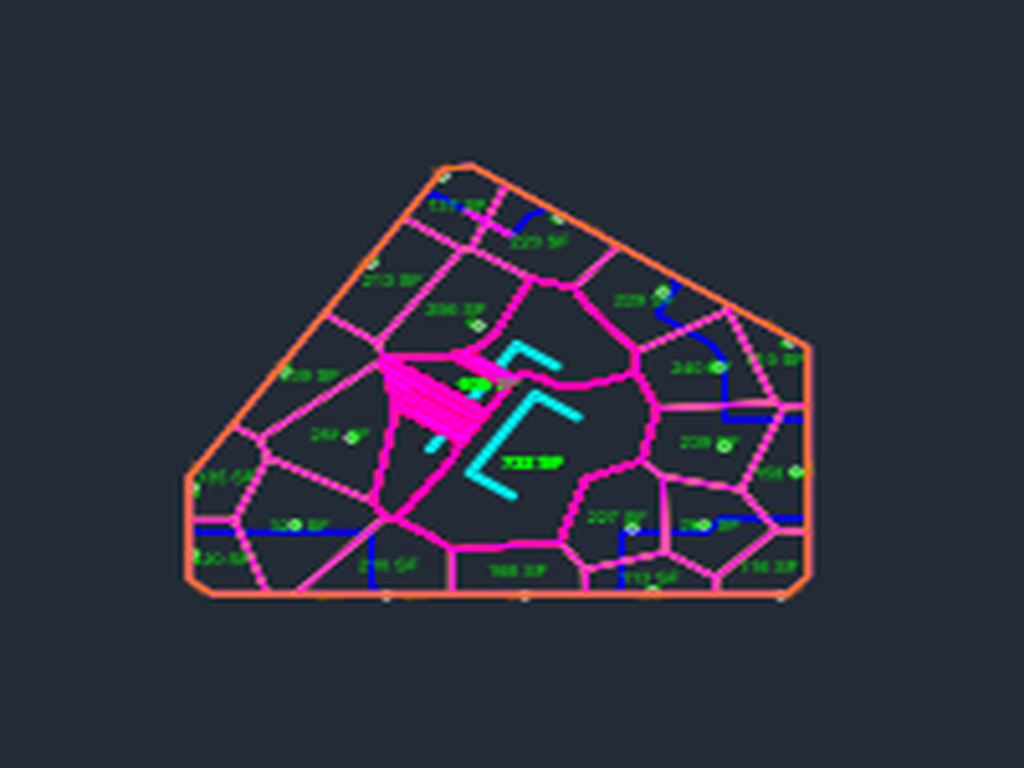
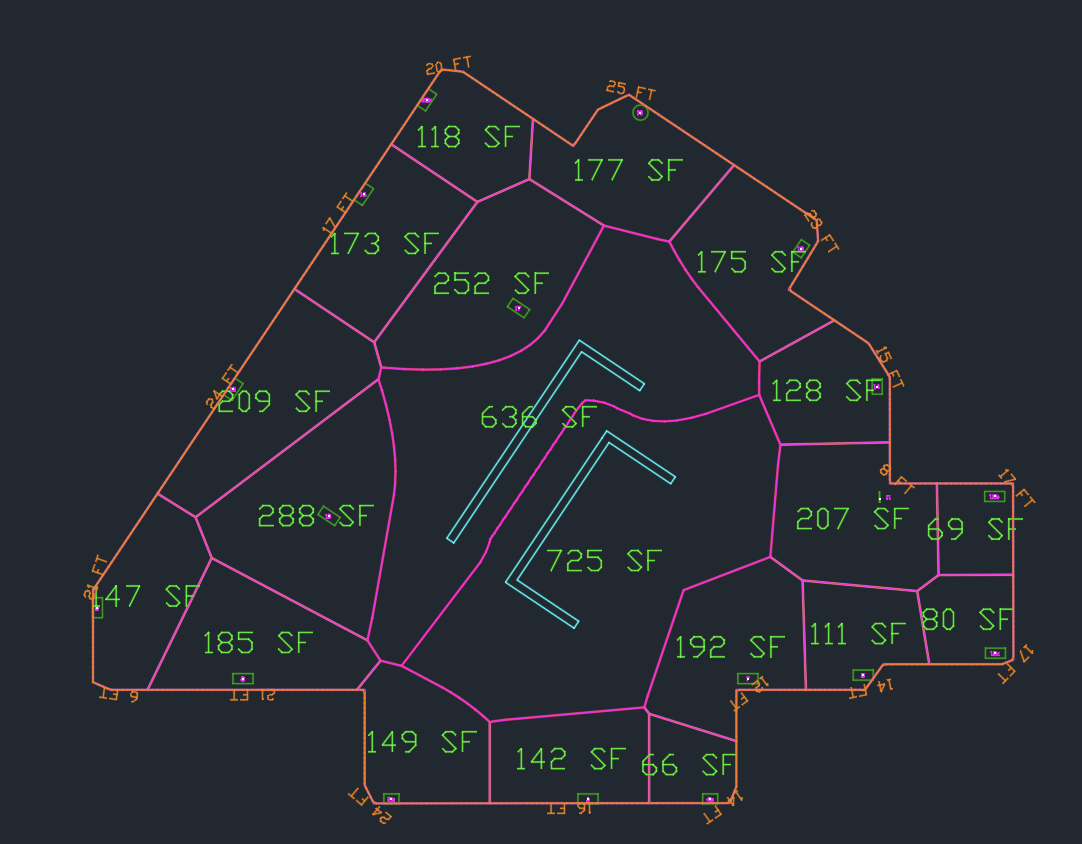
Bump 2-way slab tributary area to top, update screenshot and description

diff --git a/index.html b/index.html
@@ -26,6 +26,9 @@ Kafka</cite></a></td>
 <nav id="TOC" role="doc-toc">
 <h2 id="toc-title">Contents</h2>
 <ul class="incremental">
+<li><a href="#two-way-slab-tributary-area-app"
+id="toc-two-way-slab-tributary-area-app">2-Way Slab Tributary Area
+App</a></li>
 <li><a href="#biaxial-column-design" id="toc-biaxial-column-design">Biaxial Column Design</a></li>
 <li><a href="#representing-shear-wall-moment-as-distributed-load-calc"
 id="toc-representing-shear-wall-moment-as-distributed-load-calc">Representing
@@ -40,9 +43,6 @@ id="toc-earthquake-loading-protocol">Earthquake Loading
 Protocol</a></li>
 <li><a href="#way-slab-fast" id="toc-way-slab-fast">2-WAY SLAB
 FAST</a></li>
-<li><a href="#two-way-slab-tributary-area-app"
-id="toc-two-way-slab-tributary-area-app">2-Way Slab Tributary Area
-App</a></li>
 <li><a href="#wind-pressure" id="toc-wind-pressure">Wind
 Pressure</a></li>
 <li><a href="#kz---asce-wind-exposure-factor"
@@ -61,6 +61,12 @@ id="toc-structural-terminal">Structural Terminal</a></li>
 id="toc-structural-analysis">Structural Analysis</a></li>
 </ul>
 </nav>
+<h2 id="two-way-slab-tributary-area-app">2-Way Slab Tributary Area
+App</h2>
+<p>Demo of tributary area tool workflow. <a
+href="https://github.com/gabe-kafka/conc-slab-tributary-area-public">GitHub</a>
+<img src="assets/data/two_way_slab_tributary_area_demo.png"
+alt="2-Way Slab Tributary Area App demo" /></p>
 <h2 id="biaxial-column-design">Biaxial Column Design</h2>
 <p>Biaxial column interaction per ACI 318. <a
 href="https://huggingface.co/spaces/gabekafka/biaxial-column-aci318">Biaxial Column Design</a>
@@ -94,15 +100,6 @@ alt="Earthquake Loading Protocol" /></p>
 slabs by hand fast. No need to pay for that expensive FEA software.
 Download the Excel workbook here: <a
 href="css/2-WAY%20SLAB%20FAST.xlsx">2-WAY SLAB FAST</a></p>
-<h2 id="two-way-slab-tributary-area-app">2-Way Slab Tributary Area
-App</h2>
-<p>Small demo of the trib tool workflow: DXF in, tributary output +
-column load takedown out. <a
-href="https://github.com/gabe-kafka/conc-slab-tributary-area-public">GitHub</a>
-<img src="assets/data/two_way_slab_tributary_area_status.png"
-alt="2-Way Slab Tributary Area App status" /> <img
-src="assets/data/two_way_slab_tributary_area_demo.png"
-alt="2-Way Slab Tributary Area App demo" /></p>
 <h2 id="wind-pressure">Wind Pressure</h2>
 <p>Pulled from ASCE7-22 CH26-27 Mostly <a
 href="https://huggingface.co/spaces/gabekafka/wind_ingredients">wind
